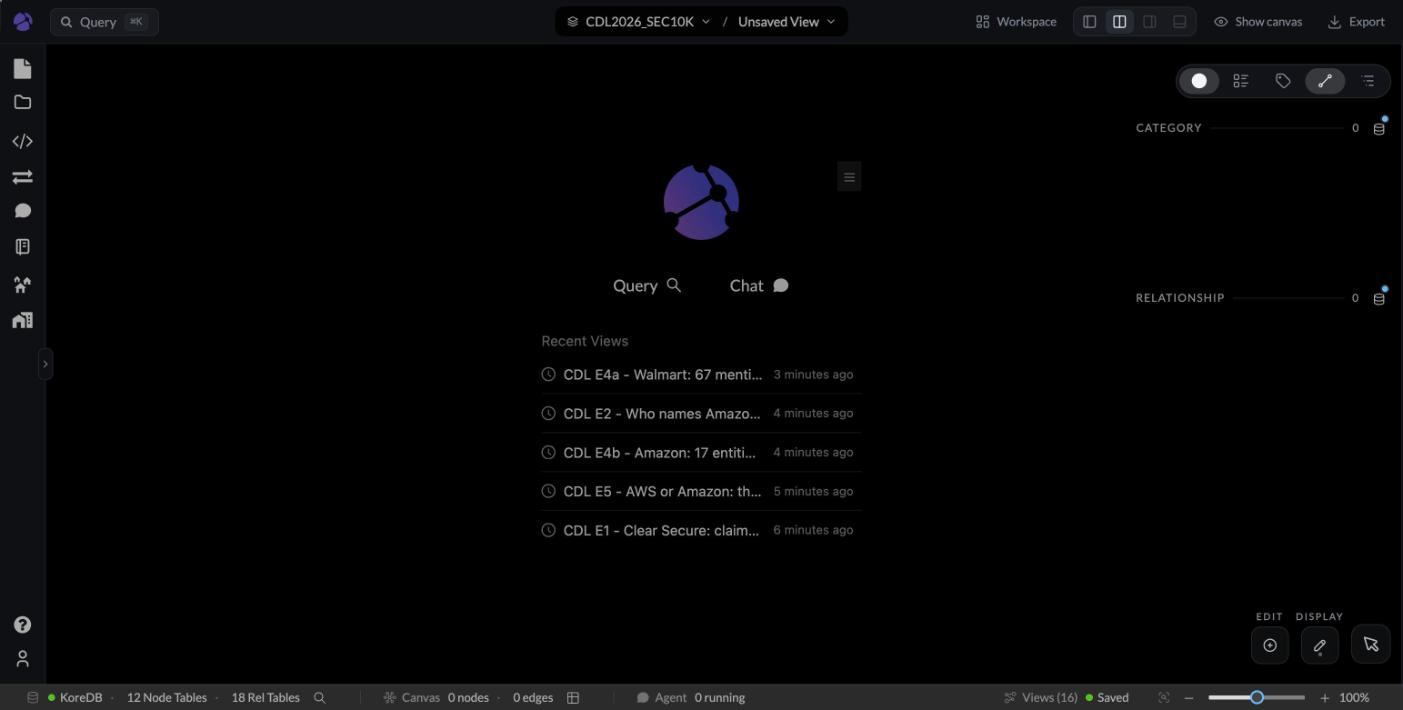
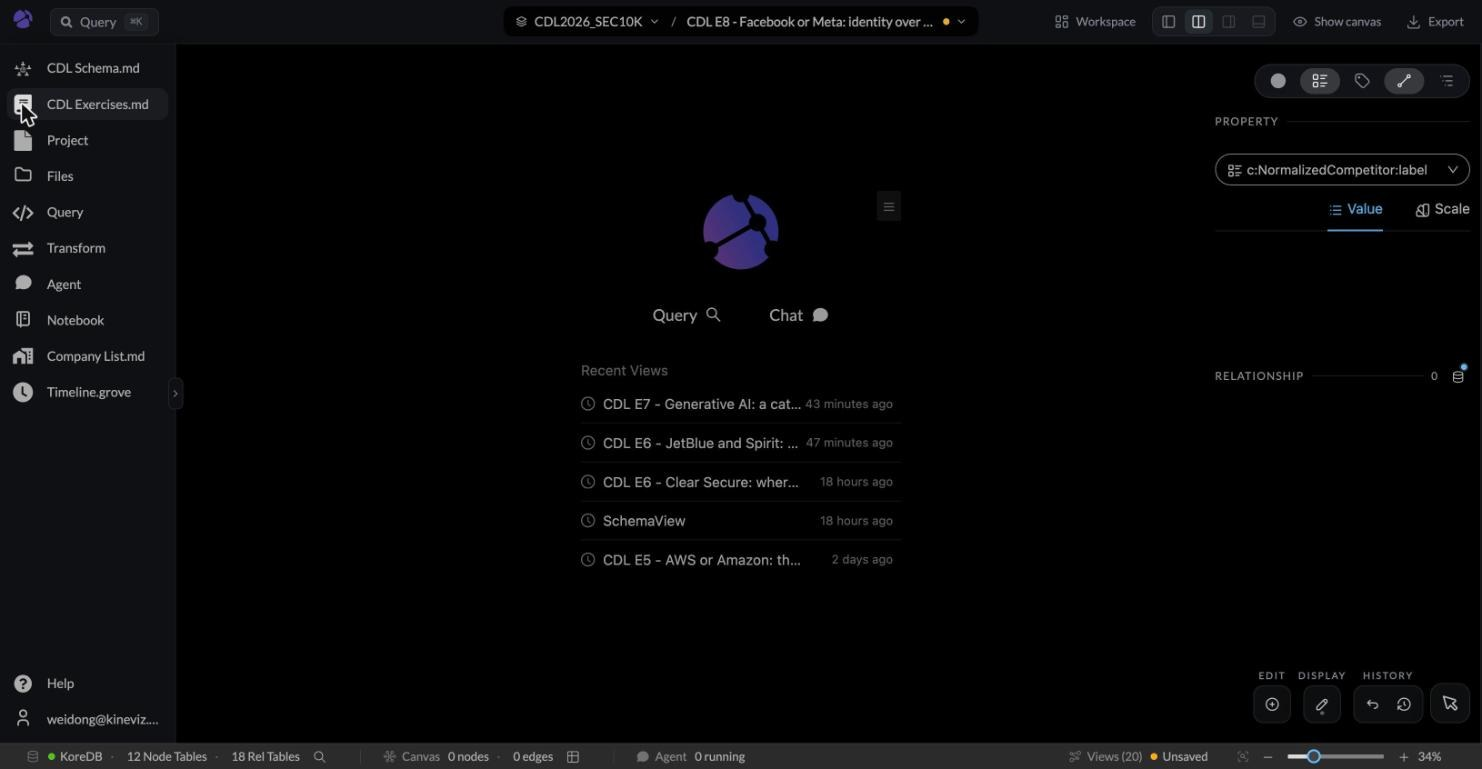
Guide: Get Kineviz (Desktop or browser), new start screenshots
Claude-Session: https://claude.ai/code/session_017CVSANhE8NMJDusXmAqjxf

diff --git a/index.html b/index.html
@@ -72,6 +72,10 @@
 
 <h2 id="start">1. Get started</h2>
 <p>The graph was built from <b>2,068 SEC 10-K filings by 438 companies (2021&ndash;2025)</b>. An LLM read three sections of each filing (Business, Risk Factors, and Management's Discussion) and wrote down the competitors, risks, markets and opportunities it found. Every one of those claims keeps the sentence it came from and a link back to the filing.</p>
+<h3>Get Kineviz: Desktop or browser</h3>
+<p>Download <b>Kineviz Desktop</b> from <a href="https://kineviz.com/desktop">kineviz.com/desktop</a>, or work in the browser at <a href="https://cloud.kineviz.com">cloud.kineviz.com</a>. If you are in the class, start the download now; it runs while we talk. No account yet? Sign up at cloud.kineviz.com. In the room, a shared login is ready if sign-up fails.</p>
+<figure><img src="img/00-kineviz-site.jpg" alt="kineviz.com" style="max-width:640px"><figcaption>kineviz.com: <b>Launch Kineviz in Browser</b> or <b>Download Kineviz Desktop</b>.</figcaption></figure>
+<h3>Open the project</h3>
 <ol class="steps">
   <li>Open the project <b>CDL2026_SEC10K</b> on <a href="https://cloud.kineviz.com">cloud.kineviz.com</a>. The start screen lists the exercise views under <i>Recent Views</i>; you can also open them from there.</li>
   <li>Click <b>CDL Exercises.md</b> (the open-book icon) near the top of the left icon strip. See <i>How to start with the two pinned notebooks</i> below.</li>
@@ -85,6 +89,10 @@
   <tr><td>Open book</td><td><b>CDL Exercises.md</b></td><td>The nine exercises, one tab each. <b>Start here.</b> The Start tab explains the buttons; click a row in its table to jump to an exercise.</td></tr>
   <tr><td>Connected dots</td><td><b>CDL Schema.md</b></td><td>Every kind of node and relationship in this graph, in plain words, with live counts. Open it when you wonder what a node or a link means.</td></tr>
 </table>
+<div class="two">
+  <figure><img src="img/01-start.jpg" alt="Project start screen"><figcaption>The project start screen. The two pinned notebooks are at the top of the left strip; the <i>CDL E&hellip;</i> views are the exercise views.</figcaption></figure>
+  <figure><img src="img/02-notebook.jpg" alt="Notebook intro"><figcaption>CDL Exercises.md on its Start tab: one tab per exercise, and the canvas on the right.</figcaption></figure>
+</div>
 <h3>Kineviz in one minute</h3>
 <table>
   <tr><th>To do this</th><th>Do this</th></tr>
@@ -94,10 +102,6 @@
   <tr><td>Move around</td><td>Scroll to zoom. Drag empty space to pan. The bottom toolbar has buttons to fit the graph on screen.</td></tr>
   <tr><td>Get help</td><td>Click <b>Help</b> (the ? at the bottom of the left strip), or open the <a href="https://helpcenter.kineviz.com/user-guides/v3/index.html">Kineviz help center</a>.</td></tr>
 </table>
-<div class="two">
-  <figure><img src="img/01-start.jpg" alt="Project start screen"><figcaption>The project start screen. The <i>CDL E&hellip;</i> views are the exercise views.</figcaption></figure>
-  <figure><img src="img/02-notebook.jpg" alt="Notebook intro"><figcaption>The notebook opens on the left; the graph canvas is on the right.</figcaption></figure>
-</div>
 
 <h2 id="buttons">2. How the notebook works</h2>
 <table>
